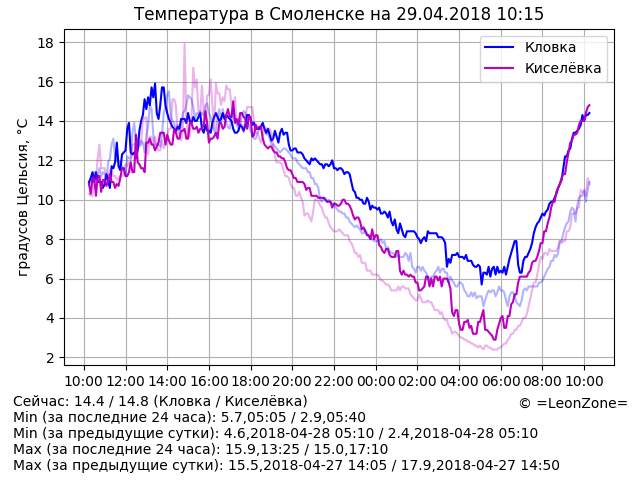
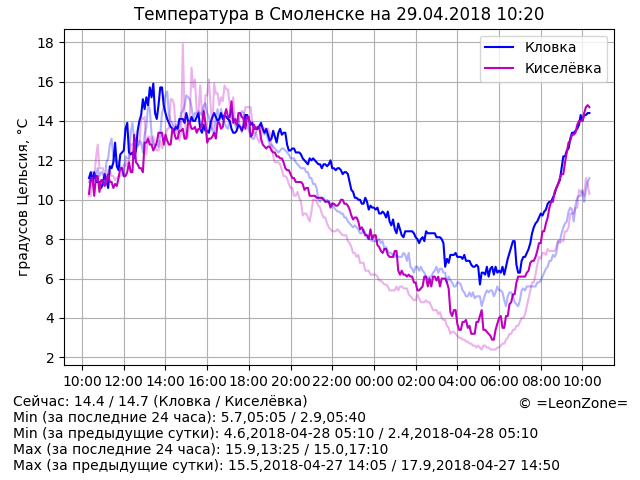
Update data

Changed region(s): [[0.125, 0.0938, 0.9375, 0.75], [0.0938, 0.7812, 0.9375, 0.8438], [0.8125, 0.0, 0.8438, 0.0625]]

diff --git a/index.html b/index.html
@@ -14,7 +14,7 @@
 	<p align="center"><script>document.write("<img src=\"graph.png?rnd="+Math.random()+"\" alt=\"Температура в Смоленске\" align=\"middle\" width=\"640\" height=\"480\" />")</script>
 	<p hidden="true">
 <!-- textinfo -->
-Сейчас: 14.4 / 14.8 (Кловка / Киселёвка)
+Сейчас: 14.4 / 14.7 (Кловка / Киселёвка)
 Min (за последние 24 часа): 5.7,05:05 / 2.9,05:40
 Min (за предыдущие сутки): 4.6,2018-04-28 05:10 / 2.4,2018-04-28 05:10
 Max (за последние 24 часа): 15.9,13:25 / 15.0,17:10
